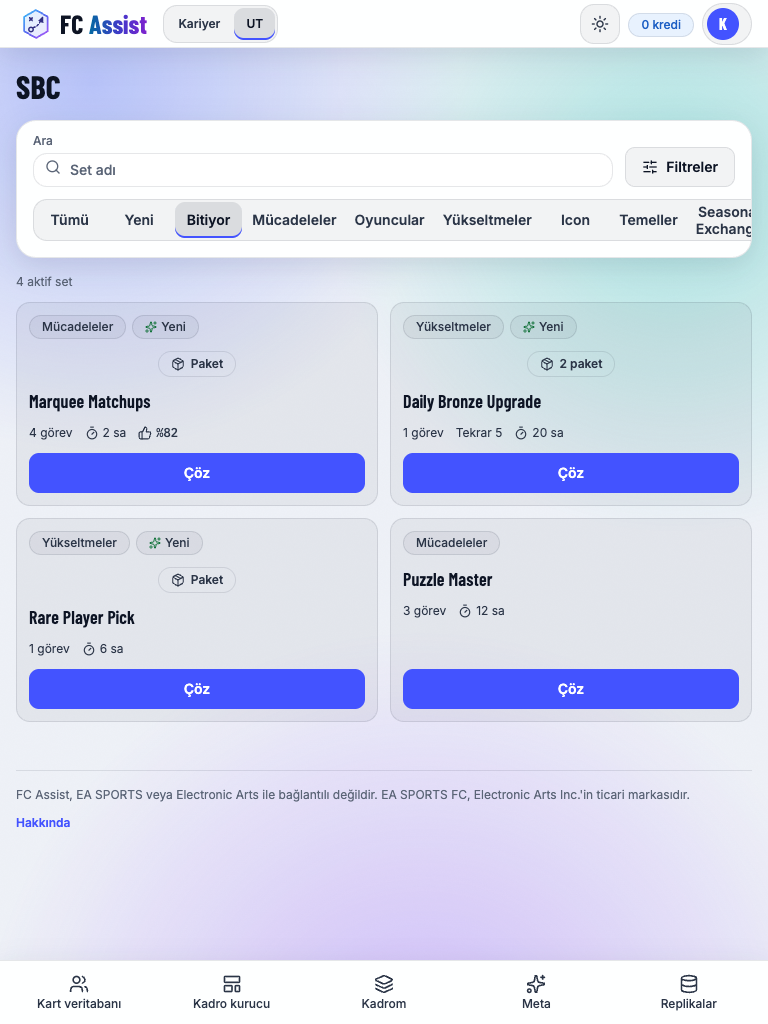
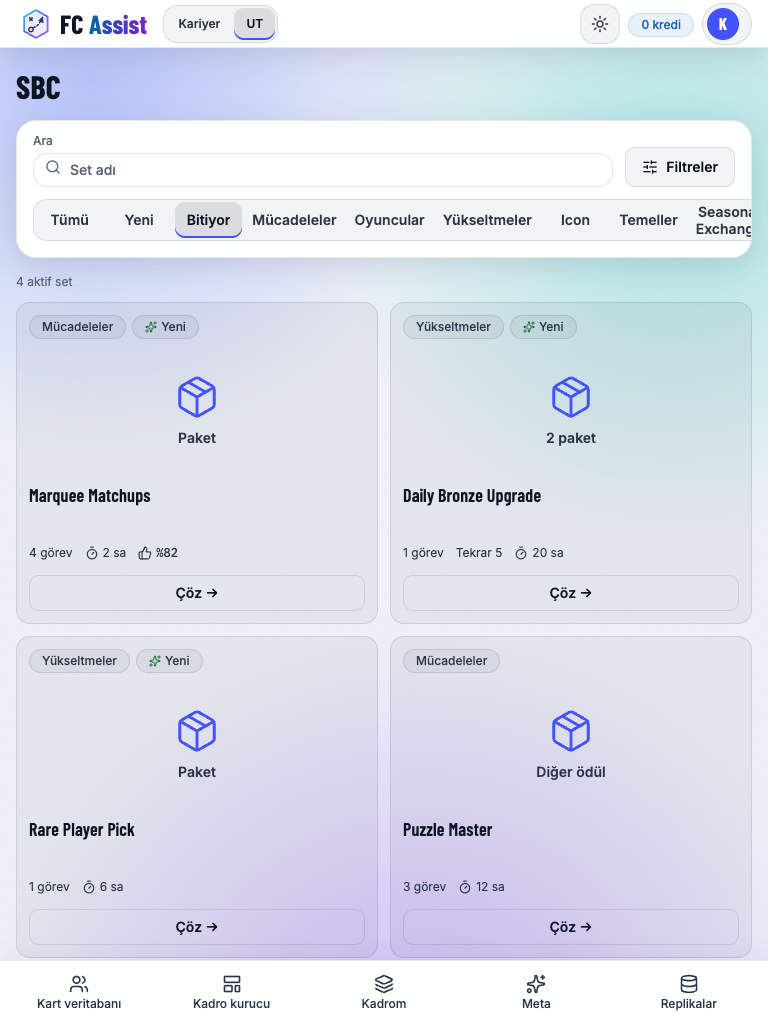
V3-05c-b: kapilar (SBC 34, ice aktarma 6 cekim), rapor, progress (yakalama engelli notu)

diff --git a/docs/review/v2/V3-04_progress.md b/docs/review/v2/V3-04_progress.md
@@ -93,6 +93,8 @@ Durum: yapıldı / kısmen / bekliyor. Hash'ler web `v3` dalı; "BE" = backend `
 - **V3-05b-b onaylandı**; **V3-05b-c yapıldı** (`V3-05b-c_rapor.md`): kart ölçekleme (stat/çip ≥ 11px taban; ölçülen eşik 6 stat 118px, çip 140px; ızgara 375/768/1280 = 2/4/6 sütun, 149/159/167px kart), glass.css `@layer components` → üst başlık, sol menü, mobil alt menü gerçekten yapışkan/sabit ve opak (alfa 1), tüm v3 yapışkanları `--header-h`, 320px başlık taşması yok, sayfa minFont ≥ 11px, PlayStyle resmî adları tek sözlükten, en uzun meta ile sekme üst kenarı 630px. Web 707 test; 05a 54 + 05b 32 çekim 0 sorun; q17 522/522 referansla aynı. Sıradaki: V3-05c.
 - **V3-05b-c onaylandı**; **V3-05c yapıldı** (`V3-05c_rapor.md`): v3 `/ut/sbc` SBC listesi (Katalog: yapışkan opak filtre çubuğu + set ızgarası; ödül kendi kartımız/rozet, tekrar, geri sayım, oy %, Yeni/Değişti, Çöz), backend V35 `sbc_set.first_seen_at`/`content_changed_at` + DTO + `items?resource=` (API CONTRACT CHANGE), kart tablosu sütunları yalnız mobilde yapışkan, q17 teardown yalnız kendi hesabı + hız sınırı sıfırlama → dolu kariyer 348/348 (sayaçlar 1 kullanıcı / 2 kariyer önce=sonra). Backend 527, web 737 test; SBC 34 + 05a 54 + 05b 32 çekim 0 sorun.
 - **HAR-01 yapıldı** (`HAR-01_rapor.md`): EA Web App uzantı yüklüyken girişi engellediği için yakalama HAR dosyasıyla (uzantıyı gizleme yok). Tarayıcıda Web Worker'da ayrıştırıcı (yalnız url/status/startedDateTime/content.text; başlık, çerez, postData asla), kurallar tek kaynak (`capture-rules.json` v2: `personalMatch` + eksik `personalOnly`), `/ut/import` varsayılan yöntem HAR (özet → onay → kişisel `/ut/capture` ya da katkı `/ut/contrib/capture`, web oturumu, yeni yetki yok). Backend 528, web 754 test; 18 çekim 0 sorun.
+- **V3-05c-b yapıldı** (`V3-05c-b_rapor.md`): SBC kartı sabit ödül alanı (152/120px; satır içerik farkı 0px), kartın tamamı tek bağlantı + ikincil "Çöz →", yakalama yöntemleri (HAR + uzantı) `VITE_CAPTURE_IMPORT` bayrağıyla gizli (varsayılan kapalı, kod duruyor), KB-boş ve içe aktarma metni EA engelini söyler. Web 756 test; SBC 34 + içe aktarma 6 çekim 0 sorun.
+- **DURUM — Web App yakalaması EA tarafından engelli (uzantı + anti-debug). UT SBC/kulüp/fiyat verisi kaynağı yok. Karar bekliyor: yakalamasız SBC çözücü.**
 - **V3-07 listesine (V3-05c notu, şimdi yapılmadı):** UT kulüp sayfası (`UtClubPage`) hâlâ sabit 124px (`size="md"`) kart kullanıyor; V3-05b-c ızgara yerleşimine (`cardGridLayout`: kart hücreyi doldurur, sütun ölçülmüş eşiğe göre) geçirilecek.
 - **V3-08 temizlik listesine (MAC-03 notu, şimdi yapılmadı):**
   - oxlint 31 uyarı (0 hata): only-export-components 11, no-unused-expressions 7, exhaustive-deps 5, refs 4, set-state-in-effect 3, triple-slash-reference 1.

diff --git a/docs/review/v2/V3-05c-b_rapor.md b/docs/review/v2/V3-05c-b_rapor.md
@@ -1,0 +1,21 @@
+# V3-05c-b — SBC listesi düzeltmeleri + yakalama yöntemlerinin kapatılması
+
+EA, FC 27 Web App'te hem uzantıyı hem geliştirici araçlarını bilerek engelliyor. Bu korumaları aşmaya yönelik hiçbir şey yapılmadı ve hiçbir metinde önerilmiyor.
+
+1. **Sabit ödül alanı:** masaüstü 152px, mobil (<820px) 120px. Oyuncu ödülü → kendi PlayerCard'ımız (alan yüksekliğine sığan genişlik: 109 / 86px), paket → büyük Package simgesi + "Paket"/"N paket", bilinmeyen oyuncu → siluet + "Oyuncu ödülü", gösterilmeyen tür (ör. coin) → "Diğer ödül". Ad 2 satırlık sabit yükseklik, rozet satırı tek satır. Ölçüm (1280, aynı satırdaki kartların içerik yüksekliği = çocuklar + aralıklar): en büyük fark **0px** (375/768'de de 0).
+2. **Tek tıklama hedefi:** kartın tamamı `/ut/sbc/:setId` bağlantısı; erişilebilir ad = set adı; görünür odak halkası (`focus-visible:ring-2` + ofset). "Çöz →" ikincil görünümlü etiket (dolu düğme değil; metin `--ink`: vurgu rengi açık temada 4,28:1 kalıyordu). Kart içinde başka etkileşimli öğe yok (test + axe nested-interactive 0).
+3. **Yakalama yöntemleri kapalı (kod duruyor):** `lib/features.ts` → `captureImportEnabled()` = `VITE_CAPTURE_IMPORT === 'on'`, varsayılan kapalı. `/ut/import` bayrak kapalıyken yalnız not: "EA, FC 27 Web App'te uzantıları ve geliştirici araçlarını engelliyor; kulüp ve SBC yakalama şu an kullanılamıyor." HAR bölümü, DevTools talimatı ve uzantı yöntemi görünmez (test + kapı ölçümü). SBC listesinin KB-boş metni aynı gerçeği söyler; içe aktarmaya, uzantıya ya da HAR'a yönlendirmez. HAR-01 testleri bileşeni doğrudan (bayrak açık eşdeğeri) test etmeye devam ediyor; sayfa testi her iki bayrak durumunu kapsıyor.
+4. **Kategori etiketleri (değiştirilmedi, `SBC_CATEGORY_LABELS`):**
+   - Favourites → Favoriler
+   - Players → Oyuncular
+   - Icons → Icon
+   - Upgrades → Yükseltmeler
+   - Challenges → Mücadeleler
+   - Foundations → Temeller
+   - Exchanges → Takaslar
+   - Special → Özel
+   - Sözlükte olmayan kategori ham adıyla gösterilir.
+
+**Kapılar:** SBC 34 çekim (`screens/V3-05c/`), içe aktarma 6 çekim (bayrak kapalı, `screens/V3-05c-b/import/`): taşma 0, axe serious/critical 0, konsol/ağ 0, sayfa minFont 11,5px, bant sızıntısı 0 ve alfa 1, içe aktarmada yöntem metni görünmez. Web 756 test, lint 0 hata, build.
+
+**Not:** mobil ödül kartı 86px'te soyad ve stat 11px tabanına sığmadığı için gizli (OVR 22px, mevki görünür); masaüstü 109px'te soyad görünür, stat gizli (eşik 118px).
